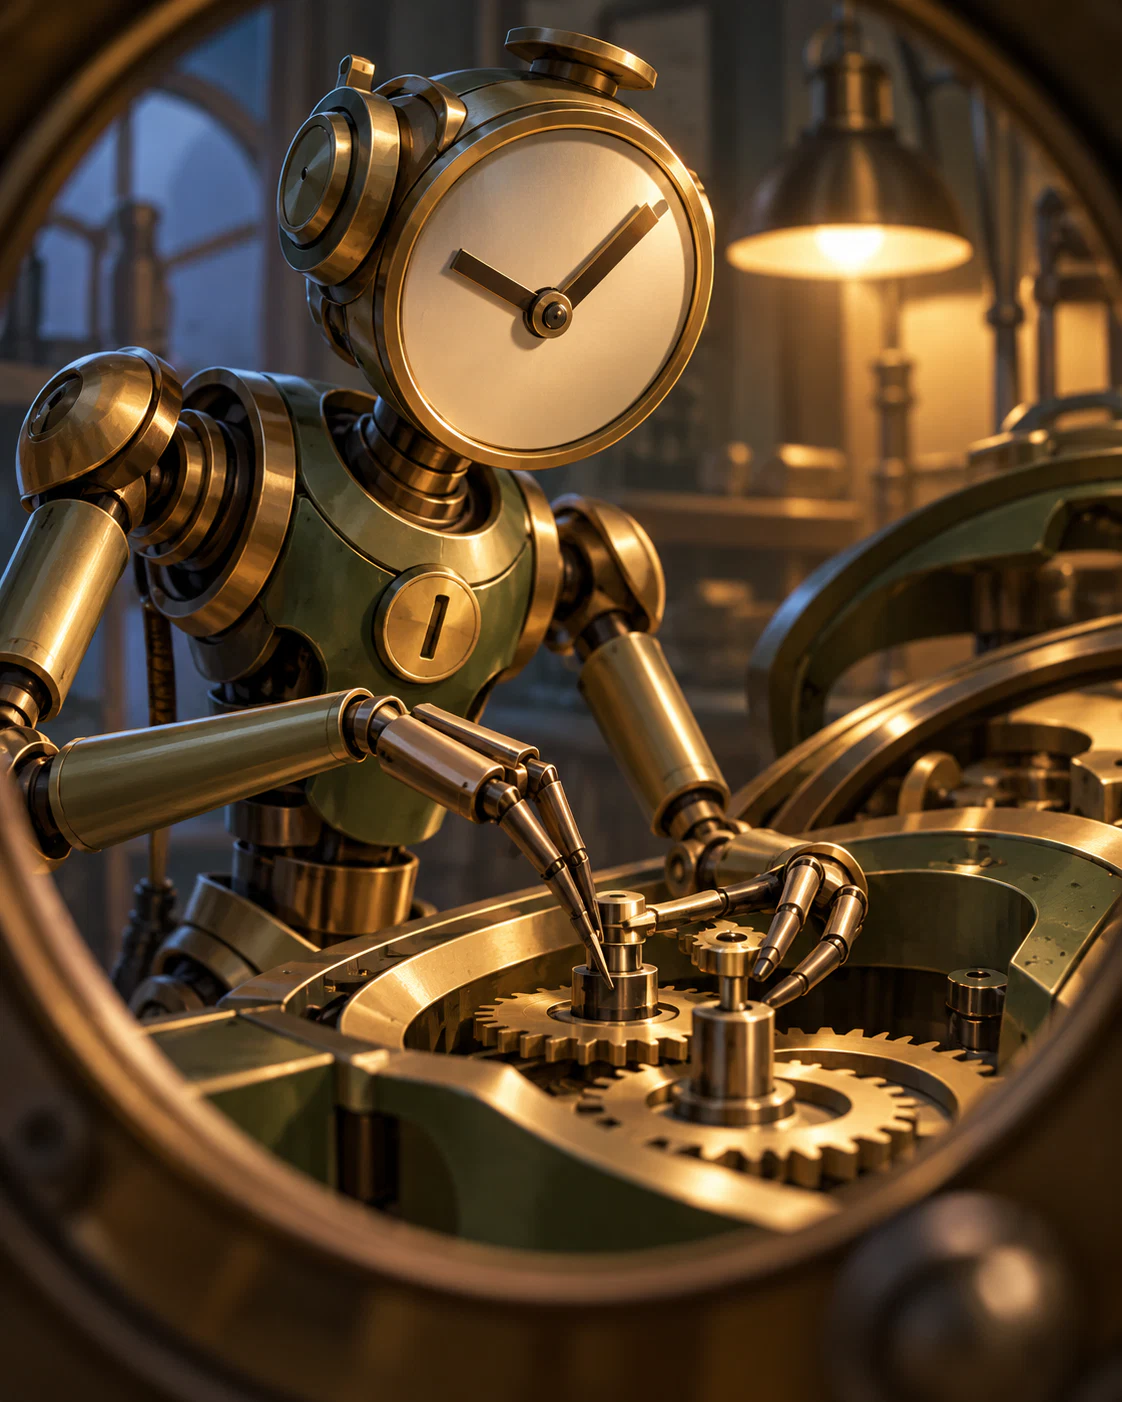
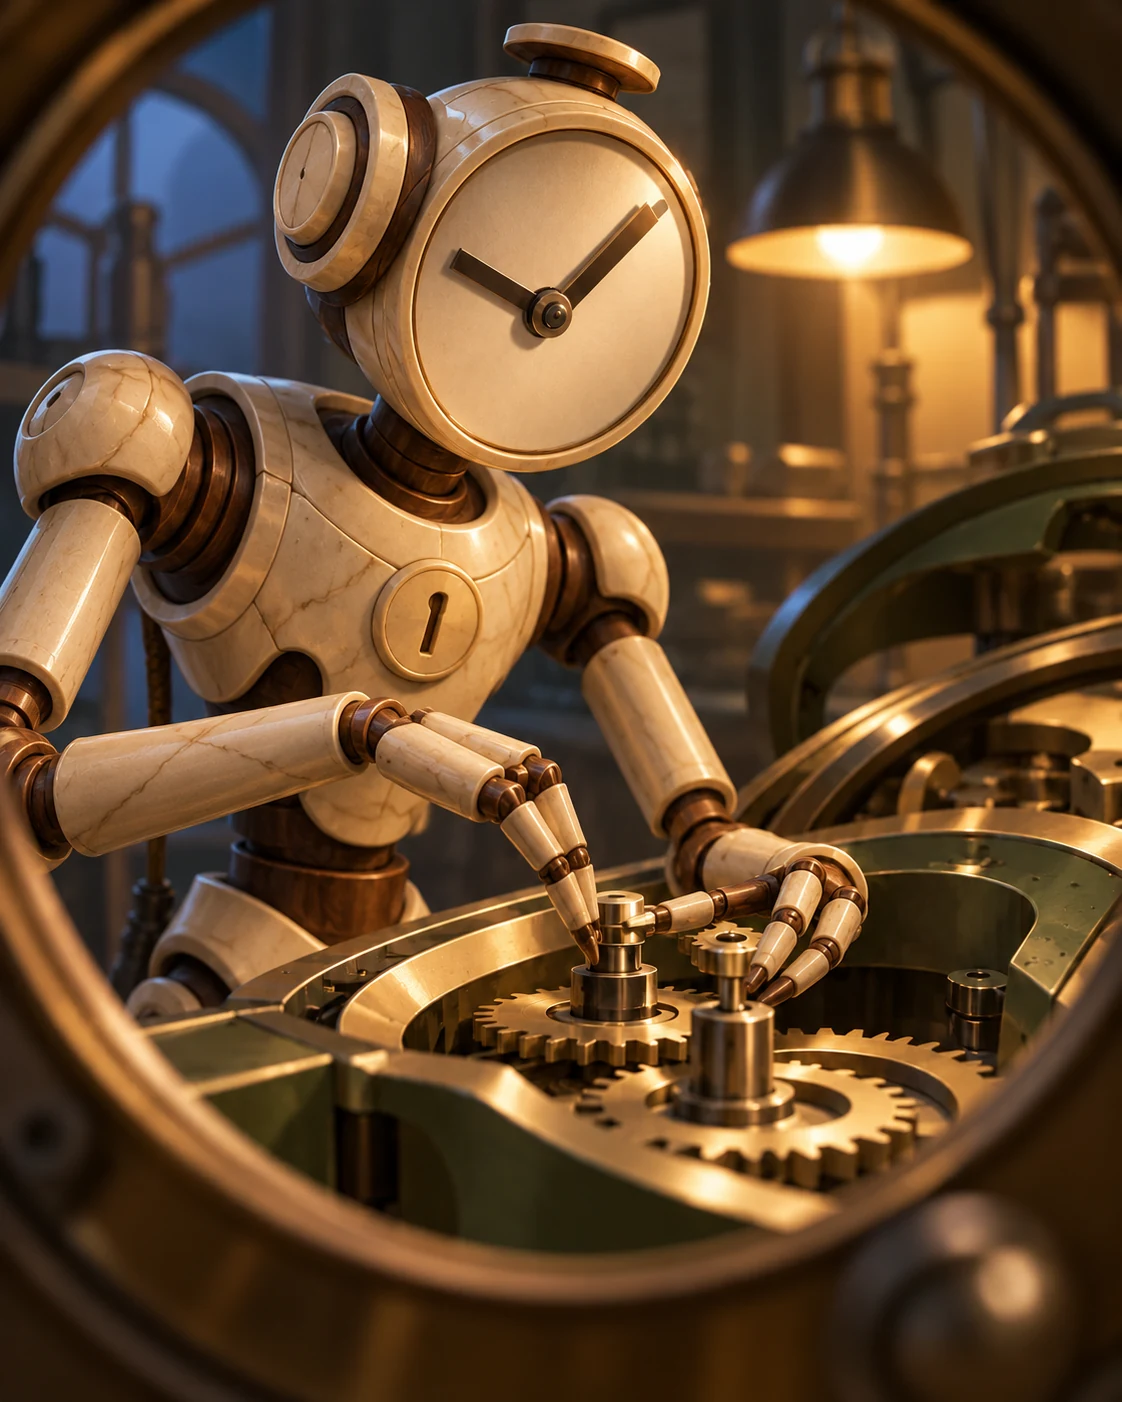
Balance patch and Berengar updates

diff --git a/docs/REGRAS_v0.2.md b/docs/REGRAS_v0.2.md
@@ -63,7 +63,7 @@ Cada jogador tem um **Líder** com vida entre 20 e 30. Vence quem zerar a vida d
   2. **Ataques:** o atacante declara um ataque de cada vez (arrastando a unidade até o alvo). Cada ataque resolve na hora, **a menos que o defensor possa reagir** (veja _Reagir a um ataque_); os gatilhos resolvem na hora. **Entre um ataque e o seguinte**, o jogador da vez pode jogar uma carta ou ativar uma habilidade **Instantânea** (veja _Janela entre ataques_).
   3. **ENCERRAR COMBATE** (ou nenhuma unidade podendo atacar) volta para a fase principal.
 - **Ordem do dano (Rapidez):** toda unidade tem uma velocidade de 4 níveis. A mais lenta (a da vasta maioria) não mostra nada na carta; as mais ágeis têm a palavra-chave **Rapidez 1**, **Rapidez 2** ou **Rapidez 3** (tag na carta). Sem a palavra-chave, a unidade tem Rapidez 0 (o motor usa exatamente a mesma escala da carta, de 0 a 3). Num desafio, quem tem mais Rapidez bate primeiro; se matar, não leva o revide. Rapidez igual bate ao mesmo tempo. Uma unidade **congelada** mantém o ATK, mas tem a Rapidez suprimida (conta como Rapidez 0) até descongelar: se desafiada, ainda revida.
-- **Crítico (X):** palavra-chave de 1 a 4. Cada dano de combate que a unidade causa (ataque, revide ou golpe no Líder) tem X × 25% de chance de ser **crítico**: **+2 de dano**, somado antes de Armadura e Escudo. No Crítico 4 o crítico é certo. Efeitos podem dar níveis temporários (até o fim do turno), sempre com o máximo de 4. Uma unidade com a marca **Desdém** (Rália) é imune: o crítico contra ela não acontece. Vael é a exceção: começa no Crítico 1, sobe 1 nível permanente a cada crítico que causa e, no Crítico 4, seus críticos dão **+4** e ele ganha **Ataque Duplo**.
+- **Crítico (X):** palavra-chave de 1 a 4. Cada dano de combate que a unidade causa (ataque, revide ou golpe no Líder) tem X × 25% de chance de ser **crítico**: **+2 de dano**, somado antes de Armadura e Escudo. No Crítico 4 o crítico é certo. Akane causa +1 de dano crítico; contra uma unidade com 7 ou mais de Vida atual ou um Líder com 15 ou mais, causa +3. Efeitos podem dar níveis temporários (até o fim do turno), sempre com o máximo de 4. Uma unidade com a marca **Desdém** (Rália) é imune: o crítico contra ela não acontece. Vael é a exceção: começa no Crítico 1, sobe 1 nível permanente a cada crítico que causa e, no Crítico 4, seus críticos dão **+4** e ele ganha **Ataque Duplo**.
 - **Ataque Duplo:** a unidade ataca duas vezes por turno. Ela fica exausta depois do primeiro ataque, mas ainda pode fazer o segundo; só deixa de poder atacar depois dele.
 - As mortes e o fim de jogo são verificados depois de cada ataque, então o jogo pode acabar no meio do combate.
 - **Vida temporária** (de bônus temporários) absorve o dano primeiro. Quando o bônus acaba, o dano marcado cai na mesma quantidade, então a unidade nunca morre só porque o bônus acabou.
@@ -171,6 +171,7 @@ Cada jogador tem um **Líder** com vida entre 20 e 30. Vence quem zerar a vida d
 ## Elétrica: Momentum guardado
 
 - **Redução de custo da Voltexz:** é um **Condicional** (`listen: turn_started`), não uma redução estática. No início de cada turno seu, se sobrou Momentum comum do turno anterior (já descontado o que você gastou no turno do oponente), o custo da Voltexz cai 1 por Momentum, onde quer que ela esteja (Santuário, mão ou campo), nunca abaixo de 3; é permanente, não há como "desfazer" um turno. Ela **ignora a Reserva**: o que sobrou conta mesmo indo para a Reserva, e o que já estava na Reserva no início do turno não conta de novo. A Encarnação guarda o total no jogador (`incarnation.cost_mod`), então ele vale para qualquer cópia dela. O Fulgurvoltz continua com redução estática: custa 3 a menos por turno iniciado com Momentum vazando (o que não cabe nos 2 da Reserva), nunca menos que 5.
+- **Gigante Elétrico:** custa 5 a menos quando havia pelo menos 4 de Momentum guardado no início do turno. Conta, sem duplicar pontos, o Momentum comum que restou e a Reserva que já estava guardada; assim inclui tanto o que foi para a Reserva naquele fechamento quanto o que já estava nela.
 - **Fulgurvoltz:** não destrói nada ao entrar. Seu Ao Ativar (5, **Rápido**) **exaure a unidade** (não pode estar exausta; quem atacou no turno não ativa, e quem ativou não ataca; exaurida, ela pode ser desafiada) e bane as unidades inimigas que cumprirem **pelo menos uma** de duas condições, conferidas na resolução: estar **exaurida**, ou ter **Ataque + Vida menor** que o do Fulgurvoltz naquele momento. Uma unidade forte e pronta para agir escapa. Vai para a pilha, então o oponente pode responder e anulá-lo (ex.: Negação de Neraqa, que precisa pagar o +2, já que o custo passa de 4). Por ser Rápido, a Reserva ajuda a pagá-lo.
 - **Momentum no próximo turno:** o Espírito Carregado dá +1 Momentum no início do seu próximo turno (soma ao Momentum do turno, até 10).
 - **Sobrecarga (Líder Voltexz):** passiva. No início do seu turno, recupere metade (arredondada para baixo, máx. 2) do Momentum que vazou da Reserva, como Momentum neste turno. "Vazar" = o que não cabe nos 2 da Reserva.

diff --git a/docs/INDICE_CARTAS.md b/docs/INDICE_CARTAS.md
@@ -194,8 +194,8 @@ Gerado por `tools/generate_card_index.gd`: não edite à mão. Cada carta está 
 | `brontharax` | Brontharax, Dragão de Bronze | Campeã | Unidade | 7 |
 | `colosso_de_arenito` | Colosso de Arenito | Comum | Unidade | 5 |
 | `yresa_colossus` | Colossus | Épica | Unidade | 0 |
-| `coracao_da_montanha` | Coração da Montanha | Comum | Artefato | 4 |
-| `cristal_do_poder` | Cristal do Poder | Comum | Artefato | 3 |
+| `coracao_da_montanha` | Coração da Montanha | Comum | Artefato | 3 |
+| `cristal_do_poder` | Cristal do Poder | Comum | Artefato | 2 |
 | `desabamento_oportuno` | Desabamento Oportuno | Épica | Feitiço | 4 |
 | `deslizamento_de_placas` | Deslizamento de Placas | Comum | Feitiço | 4 |
 | `desmontador_de_quinquilharia` | Desmontador de Quinquilharia | Comum | Unidade | 3 |
@@ -211,7 +211,7 @@ Gerado por `tools/generate_card_index.gd`: não edite à mão. Cada carta está 
 | `fundicao_de_emergencia` | Fundição de Emergência | Épica | Feitiço | 4 |
 | `geodo_vivo` | Geodo Vivo | Comum | Unidade | 3 |
 | `golpe_de_marreta` | Golpe de Marreta | Comum | Feitiço | 2 |
-| `montadora_porca_frouxa` | Grã-Montadora Nina | Lendária | Unidade | 5 |
+| `gra_montadora_nina` | Grã-Montadora Nina | Lendária | Unidade | 4 |
 | `guardiao_das_camadas` | Guardião das Camadas | Épica | Unidade | 3 |
 | `hora_extra_compulsoria` | Hora Extra Compulsória | Épica | Feitiço | 3 |
 | `karuun` | Karuun, o Deus da Montanha | Lendária | Unidade | 8 |
@@ -222,16 +222,16 @@ Gerado por `tools/generate_card_index.gd`: não edite à mão. Cada carta está 
 | `morakhan` | Morakhan | Campeã | Unidade | 6 |
 | `muralha_cara_de_pedra` | Muralha Cara-de-Pedra | Épica | Feitiço | 2 |
 | `muralha_emergente` | Muralha Emergente | Comum | Feitiço | 2 |
-| `nucleo_de_geodo` | Núcleo de Geodo | Comum | Artefato | 2 |
-| `oraculo_de_quartzo` | Oráculo de Quartzo | Comum | Unidade | 3 |
-| `otavio_rebite_quente` | Otávio Rebite-Quente | Campeã | Unidade | 8 |
+| `nucleo_de_geodo` | Núcleo de Geodo | Comum | Artefato | 1 |
+| `oraculo_de_quartzo` | Oráculo de Quartzo | Comum | Unidade | 2 |
+| `otavio_rebite_quente` | Otávio Rebite-Quente | Campeã | Unidade | 7 |
 | `placa_espelhada_de_adamantina` | Placa Espelhada de Adamantina | Comum | Artefato | 3 |
 | `predador_de_dolomita` | Predador de Dolomita | Comum | Unidade | 3 |
 | `prensa_hidraulica` | Prensa Hidráulica | Épica | Artefato | 4 |
 | `projetil_geomantico` | Projétil Geomântico | Comum | Feitiço | 4 |
 | `quartzina_bagunca_tudo` | Quartzina Bagunça-Tudo | Épica | Unidade | 6 |
 | `rakhana` | Rakhana | Campeã | Unidade | 4 |
-| `relojoeiro_pino_14` | Relojoeiro Pino-14 | Comum | Unidade | 3 |
+| `relojoeiro_pino_14` | Relojoeiro Pino-14 | Comum | Unidade | 2 |
 | `sacoleiro_tobias_bolso_fundo` | Sacoleiro Tobias Bolso-Fundo | Épica | Unidade | 4 |
 | `sentinela_de_xisto` | Sentinela de Xisto | Comum | Unidade | 1 |
 | `yresa_sentinel` | Stoneward | Comum | Unidade | 0 |
